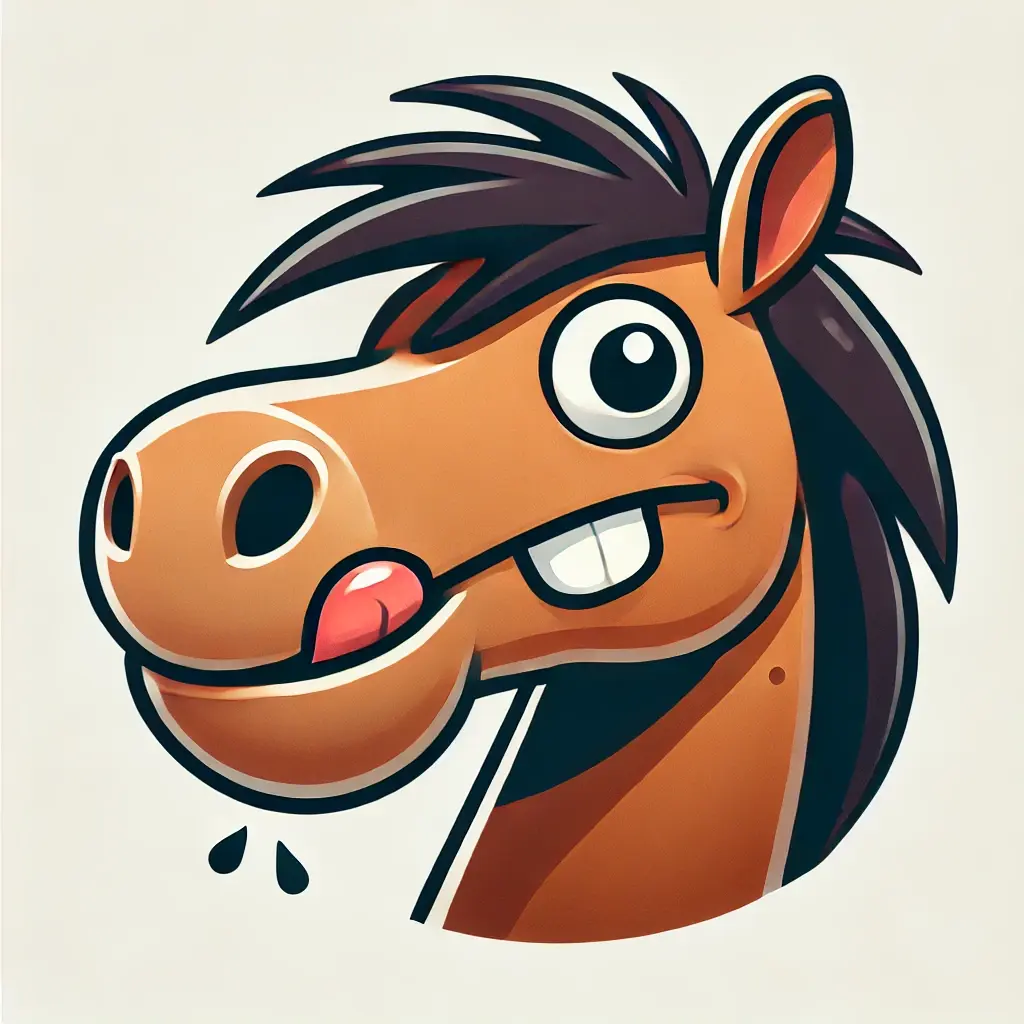
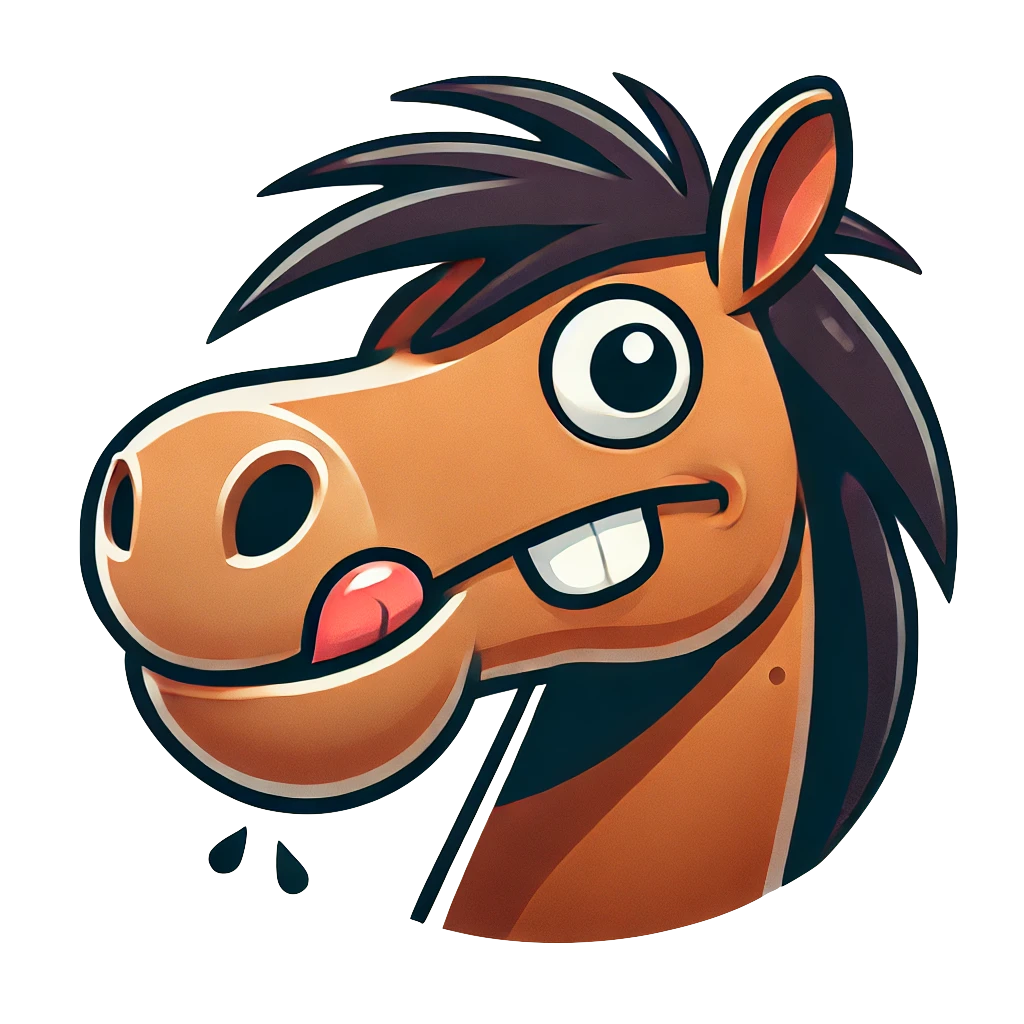
chore: replace readme stu with transparent stu (#33)
* chore: replace readme stu with transparent stu

* chore: attempt to aling stu to left

* chore: remove heading and make Glu a bold paragraph

* chore: add a horizontal rule

* chore: put heading it is own block

* chore: just add breaks everywhere

* chore: one more break

* chore: one more break

* chore: attempt with a h2

* chore: attempt with h3 and em the tagline

* chore: more break between tagline and paragraph

* chore: wrap tagline in a paragraph

diff --git a/README.md b/README.md
@@ -1,13 +1,18 @@
-<div align="center"j>
-  <img src="./.github/images/stu.png" alt="Stu - The Glu mascot" width="200" />
+<div>
+  <img align="left" src="./.github/images/stu.png" alt="Stu - The Glu mascot" width="200" />
+  <br>
+  <h3>Glu</h3>
+  <p>
+    <em>
+      Progressive delivery that sticks
+    </em>
+  </p>
+  <p>
+    Glu is the missing piece in your CI/CD toolbelt.
+    It is a framework for orchestrating, manipulating and introspecting the state of configuration Git repositories.
+  </p>
+  <br>
 </div>
-
-# Glu
-
-> Progressive delivery that sticks
-
-Glu is the missing piece in your CI/CD toolbelt.
-It is a framework for orchestrating, manipulating and introspecting the state of configuration Git repositories.
 
 ## What Is It?
 
